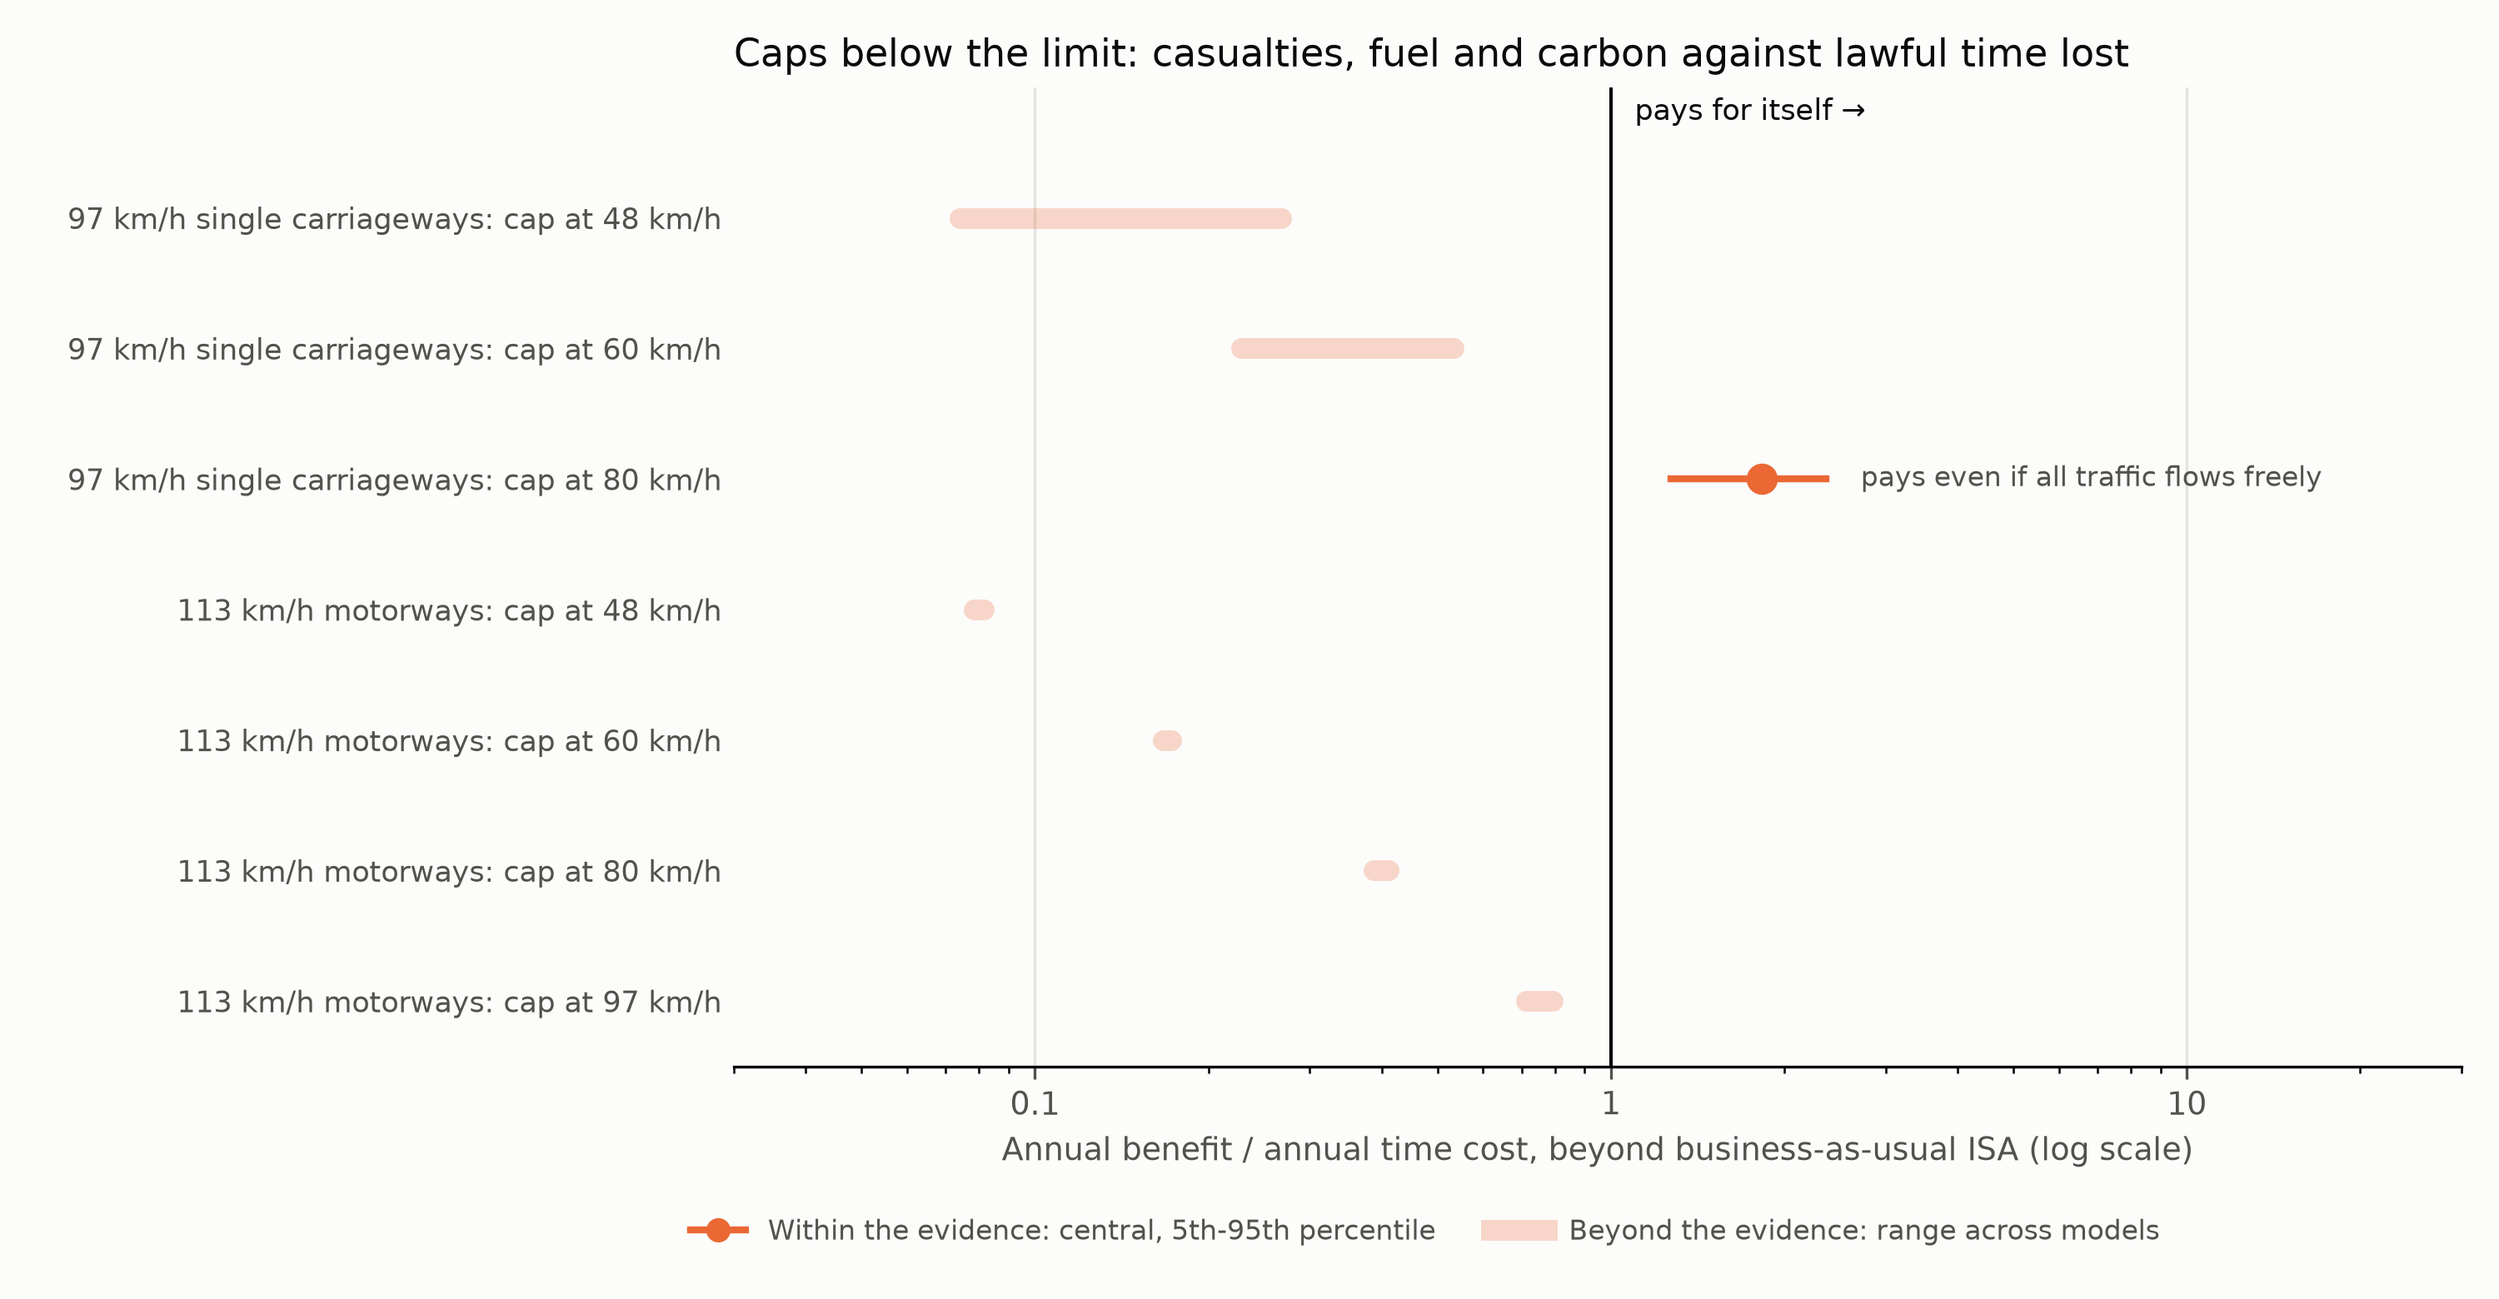
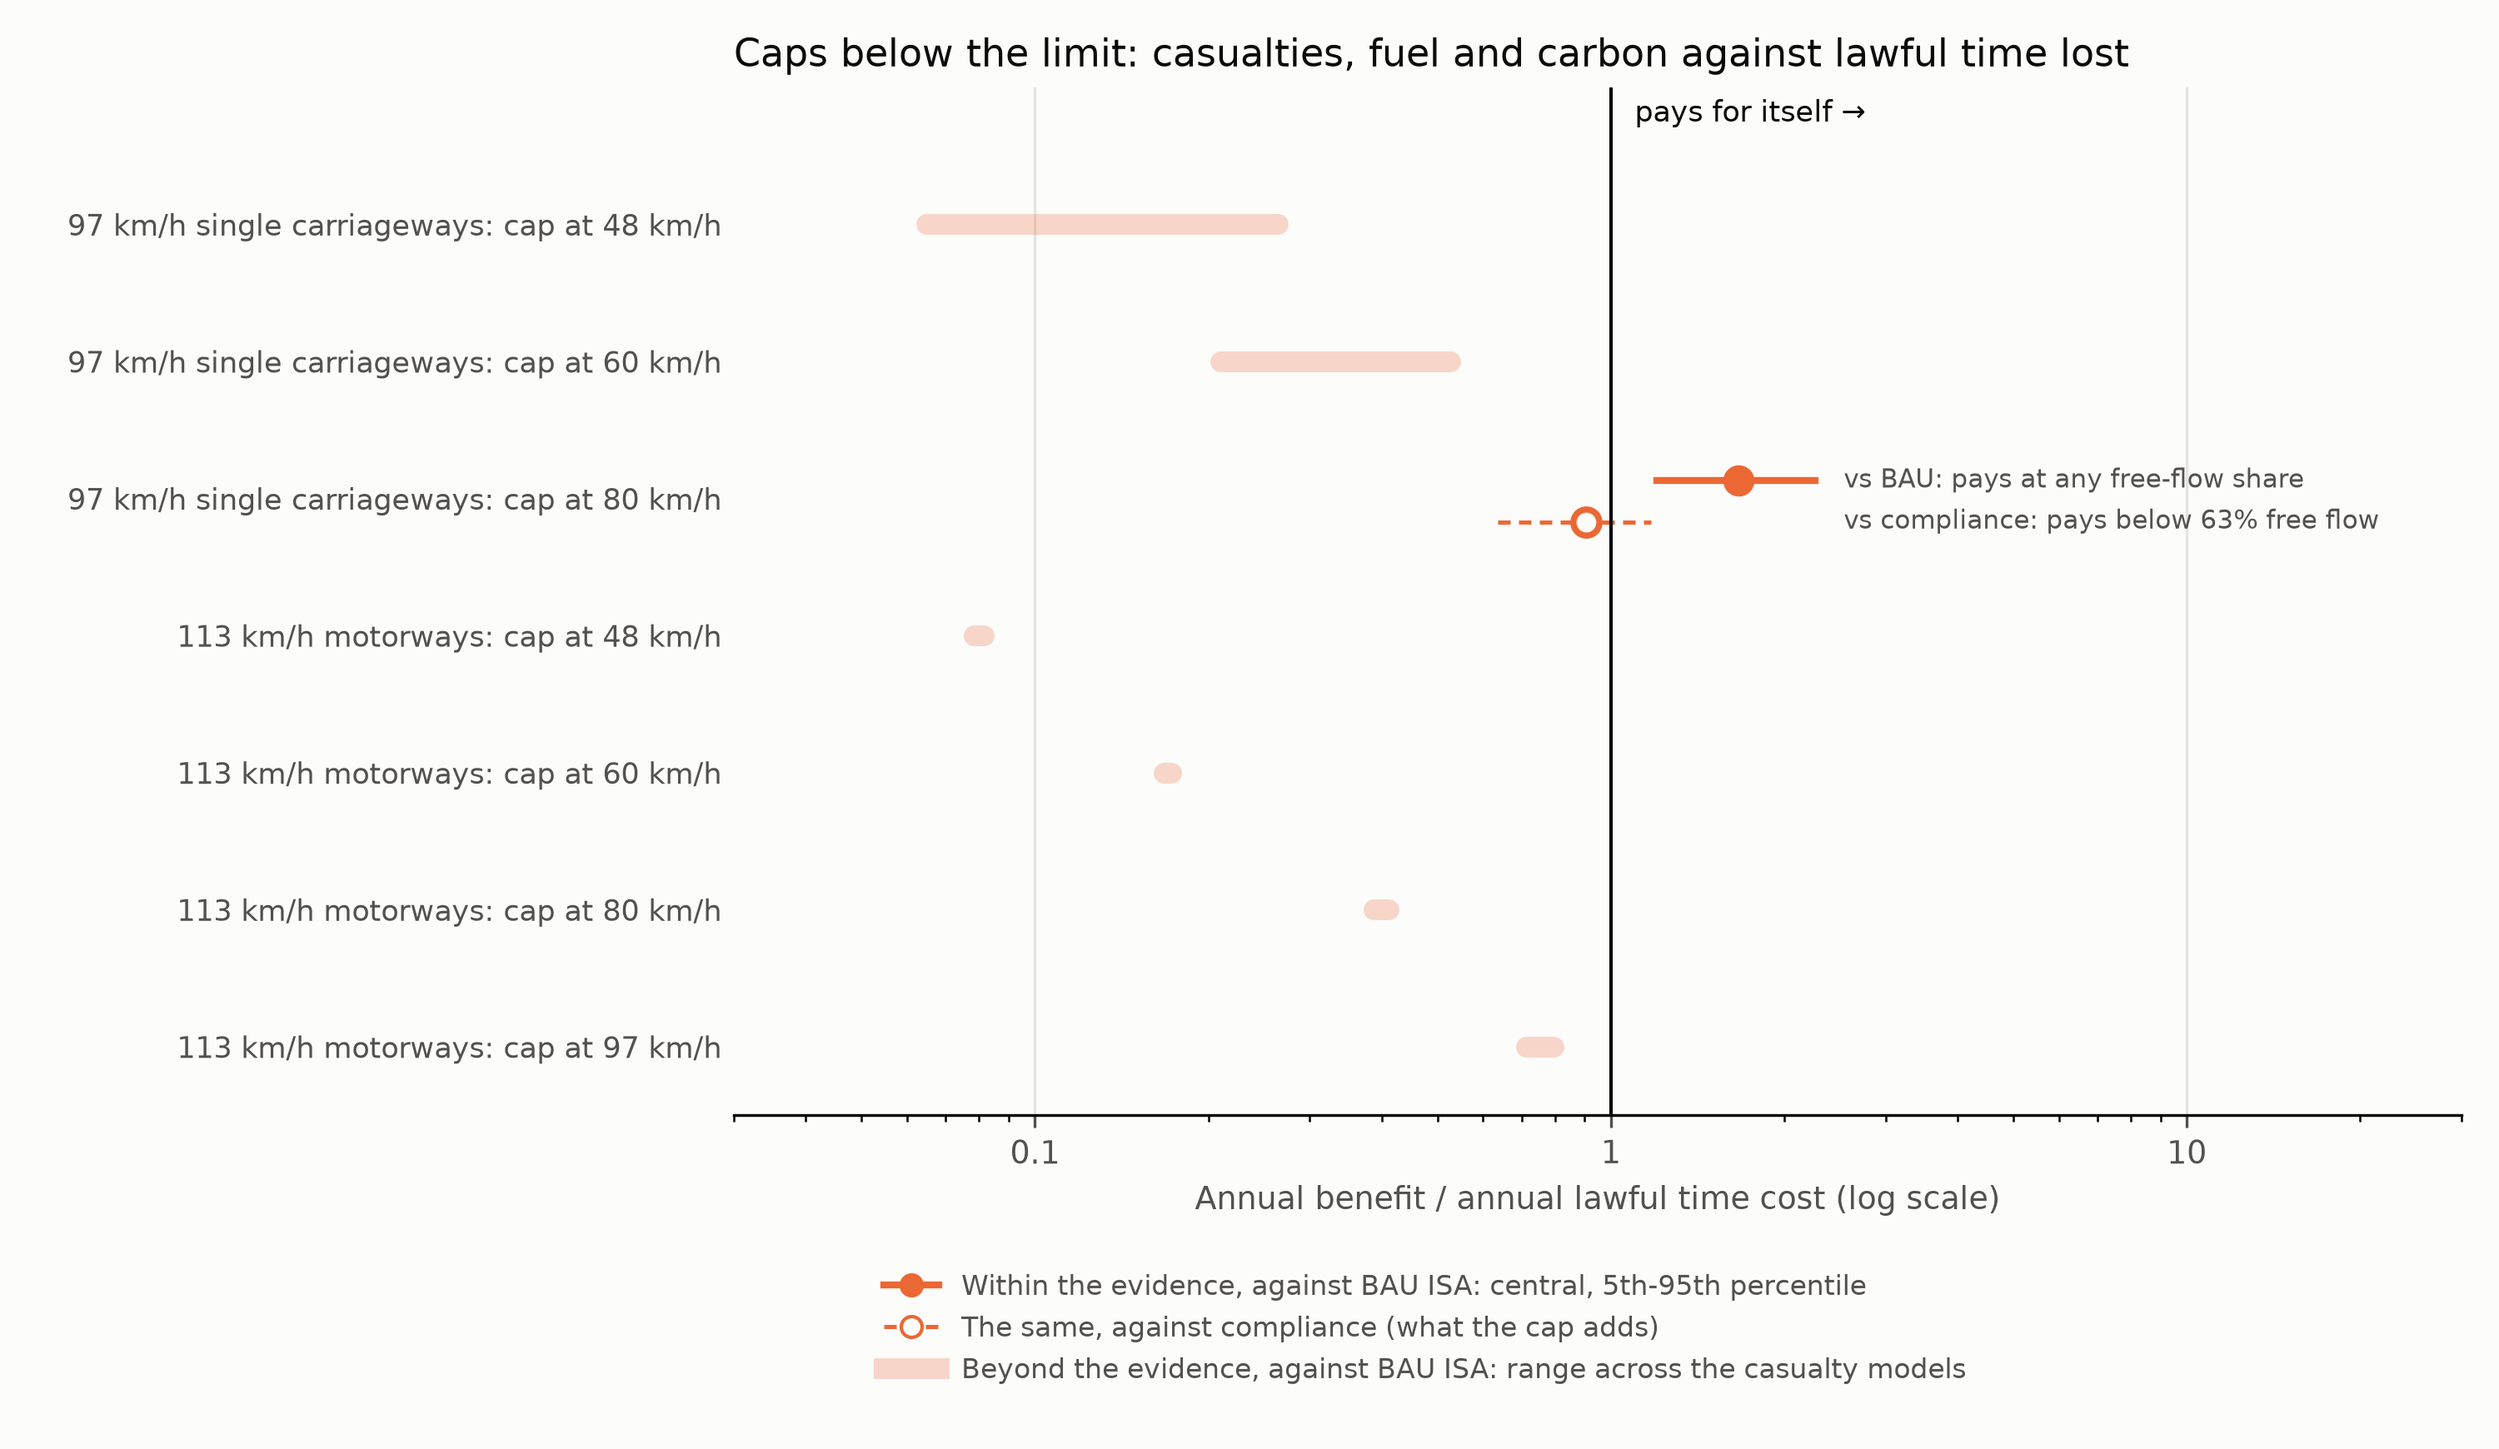
Show both comparisons in Fig. 3 and the cap beyond compliance in Fig. 4; regenerate figures

diff --git a/analysis/rq3.py b/analysis/rq3.py
@@ -304,6 +304,10 @@ def sensitivity(cases: dict[str, tuple[float, float, float, float]]) -> pd.DataF
                          for name, (benefit, cost, extra, extra_cost) in cases.items()])
 
 
+def short_pays(share: float) -> str:
+    return "pays at any free-flow share" if share >= 1 else f"pays below {share:.0%} free flow"
+
+
 def pays_if(share: float) -> str:
     """The break-even free-flow share in words."""
     if share >= 1:
@@ -428,8 +432,10 @@ def chart_bcr(summary: pd.DataFrame, extra: pd.DataFrame, path: Path) -> None:
                 m = more.iloc[0]
                 ax.plot([m["bcr_p5"], m["bcr_p95"]], [y + 0.17, y + 0.17], color=c, lw=1.2, ls=(0, (3, 2)))
                 ax.plot(m["bcr"], y + 0.17, "o", ms=7.5, mfc=SURFACE, mec=c, mew=1.8)
-                ax.text(max(r["bcr_p95"], m["bcr_p95"]) * 1.15, y, f"against compliance: "
-                        f"{pays_if(m['break_even_free_flow'])}", va="center", fontsize=8, color=MUTED)
+                ax.text(r["bcr_p95"] * 1.12, y - 0.13, f"vs BAU: {short_pays(r['break_even_free_flow'])}", va="center",
+                        fontsize=7.5, color=MUTED)
+                ax.text(r["bcr_p95"] * 1.12, y + 0.17, f"vs compliance: {short_pays(m['break_even_free_flow'])}", va="center",
+                        fontsize=7.5, color=MUTED)
             else:
                 ax.text(r["bcr_p95"] * 1.15, y, pays_if(r["break_even_free_flow"]), va="center", fontsize=8, color=MUTED)
         else:
@@ -464,9 +470,9 @@ def chart_bcr(summary: pd.DataFrame, extra: pd.DataFrame, path: Path) -> None:
 
 
 def chart_sensitivity(sens: pd.DataFrame, path: Path) -> None:
-    """Net benefit of the focus cap with one assumption changed at a time, largest swing first."""
-    central = sens.loc[sens["sensitivity"] == "Central", "net"].iloc[0] / 1e6
-    rows = sens[sens["sensitivity"] != "Central"].assign(net_m=lambda d: d["net"] / 1e6)
+    """Net benefit of the focus cap beyond compliance, one assumption changed at a time, largest swing first."""
+    central = sens.loc[sens["sensitivity"] == "Central", "net_vs_compliance"].iloc[0] / 1e6
+    rows = sens[sens["sensitivity"] != "Central"].assign(net_m=lambda d: d["net_vs_compliance"] / 1e6)
     rows = rows.assign(swing=(rows["net_m"] - central).abs()).sort_values("swing").reset_index(drop=True)
     fig, ax = plt.subplots(figsize=(9, 5.2), facecolor=SURFACE)
     ax.set_facecolor(SURFACE)
@@ -476,7 +482,7 @@ def chart_sensitivity(sens: pd.DataFrame, path: Path) -> None:
                 ha="left" if r["net_m"] >= central else "right", fontsize=8, color=MUTED)
     ax.axvline(central, color=INK, lw=1)
     ax.axvline(0, color=MUTED, lw=1, ls=":")
-    ax.set_xlim(min(rows["net_m"].min(), central) - 120, max(rows["net_m"].max(), 0) + 80)
+    ax.set_xlim(min(rows["net_m"].min(), central) - 90, max(rows["net_m"].max(), 0) + 90)
     ax.set_yticks(range(len(rows)), rows["sensitivity"], fontsize=8.5, color=MUTED)
     ax.tick_params(axis="x", colors=MUTED, labelsize=9)
     ax.tick_params(axis="y", length=0)
@@ -484,8 +490,9 @@ def chart_sensitivity(sens: pd.DataFrame, path: Path) -> None:
     ax.set_axisbelow(True)
     for side in ("top", "right", "left"):
         ax.spines[side].set_visible(False)
-    ax.set_xlabel(f"Net benefit, £m a year (central {central:,.0f}; dotted line = break-even)", color=MUTED, fontsize=9)
-    ax.set_title(f"{POLICY_NAMES[FOCUS[1]]} on {FOCUS[0]}: what moves the answer", loc="left", fontsize=11, color=INK)
+    ax.set_xlabel(f"Net benefit beyond compliance, £m a year (central {central:,.0f}; dotted line = break-even)", color=MUTED, fontsize=9)
+    ax.set_title("80 km/h cap on 97 km/h roads, beyond compliance: what moves the answer", loc="left",
+                 fontsize=10.5, color=INK)
     fig.tight_layout()
     fig.savefig(path, dpi=300, facecolor=SURFACE)
     plt.close(fig)
